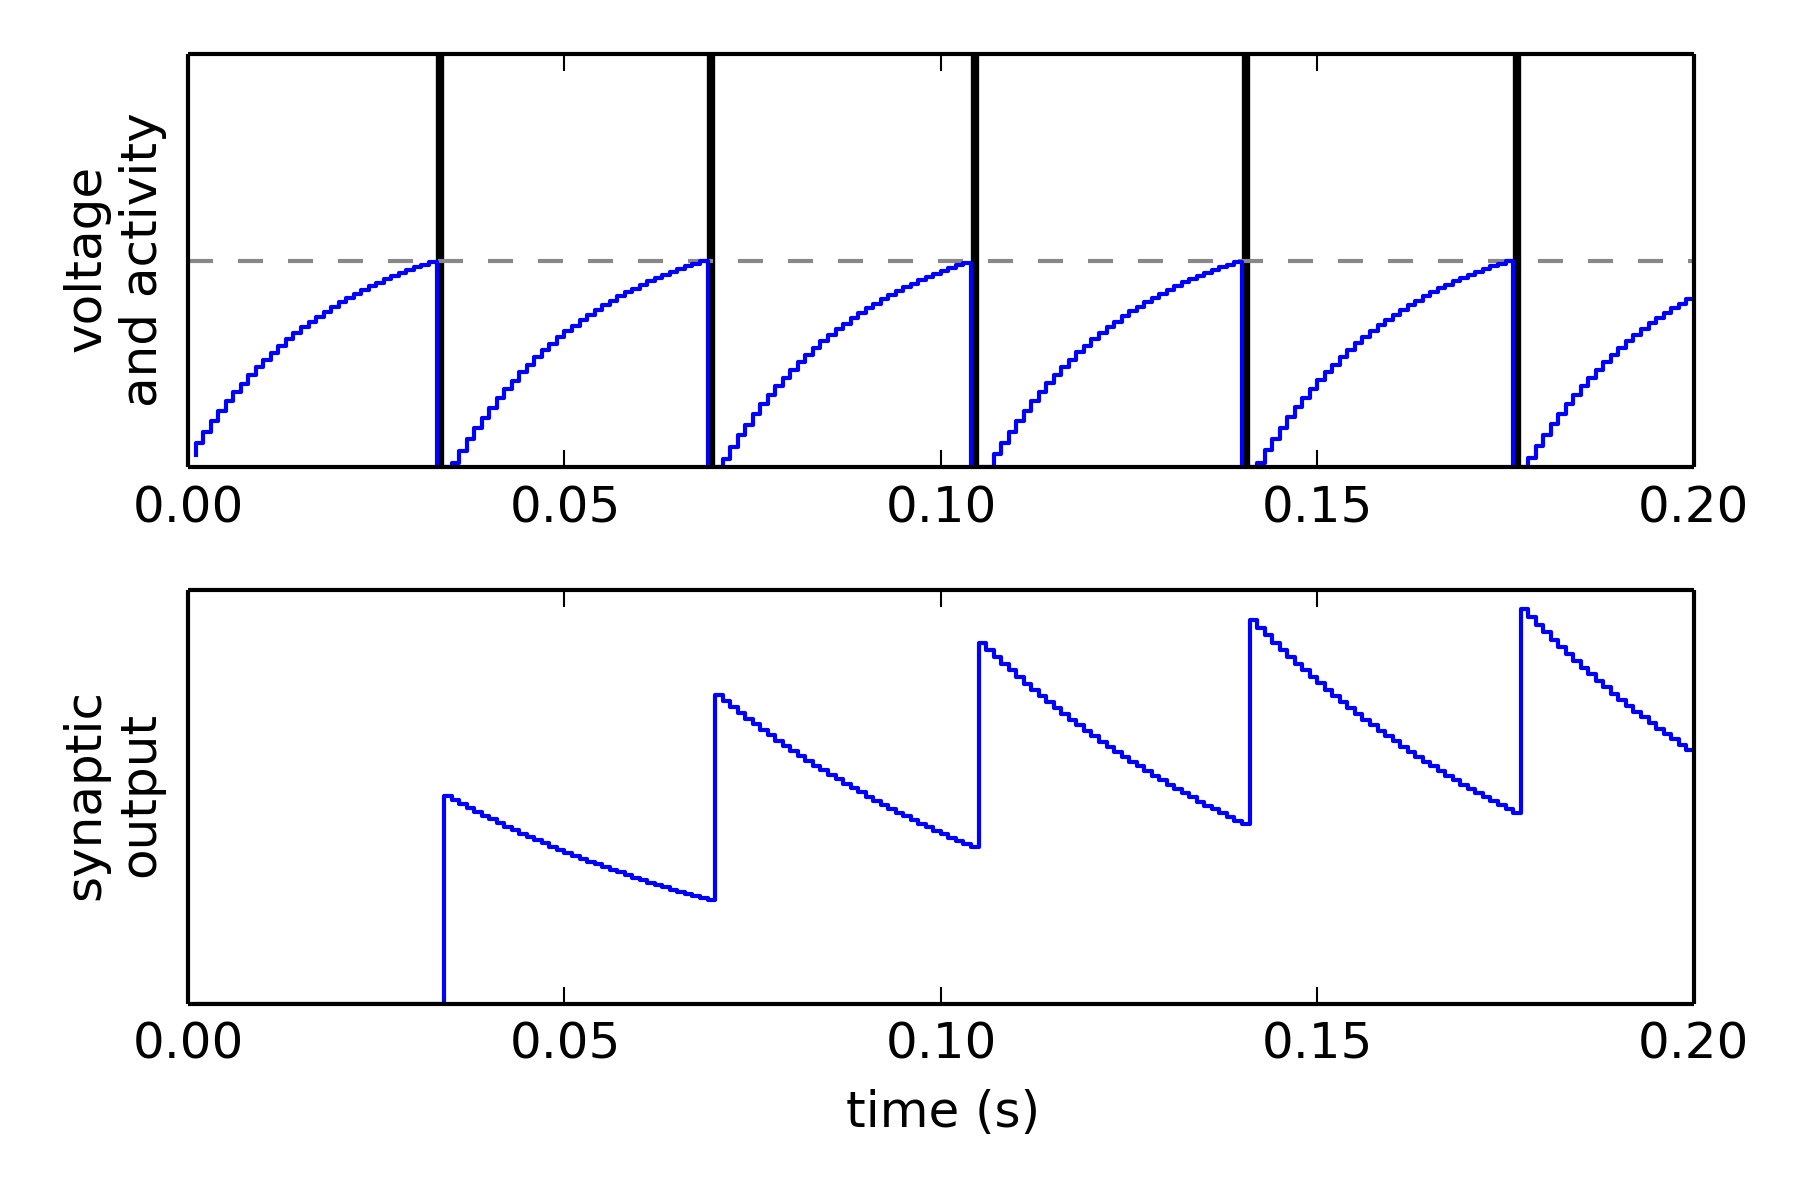
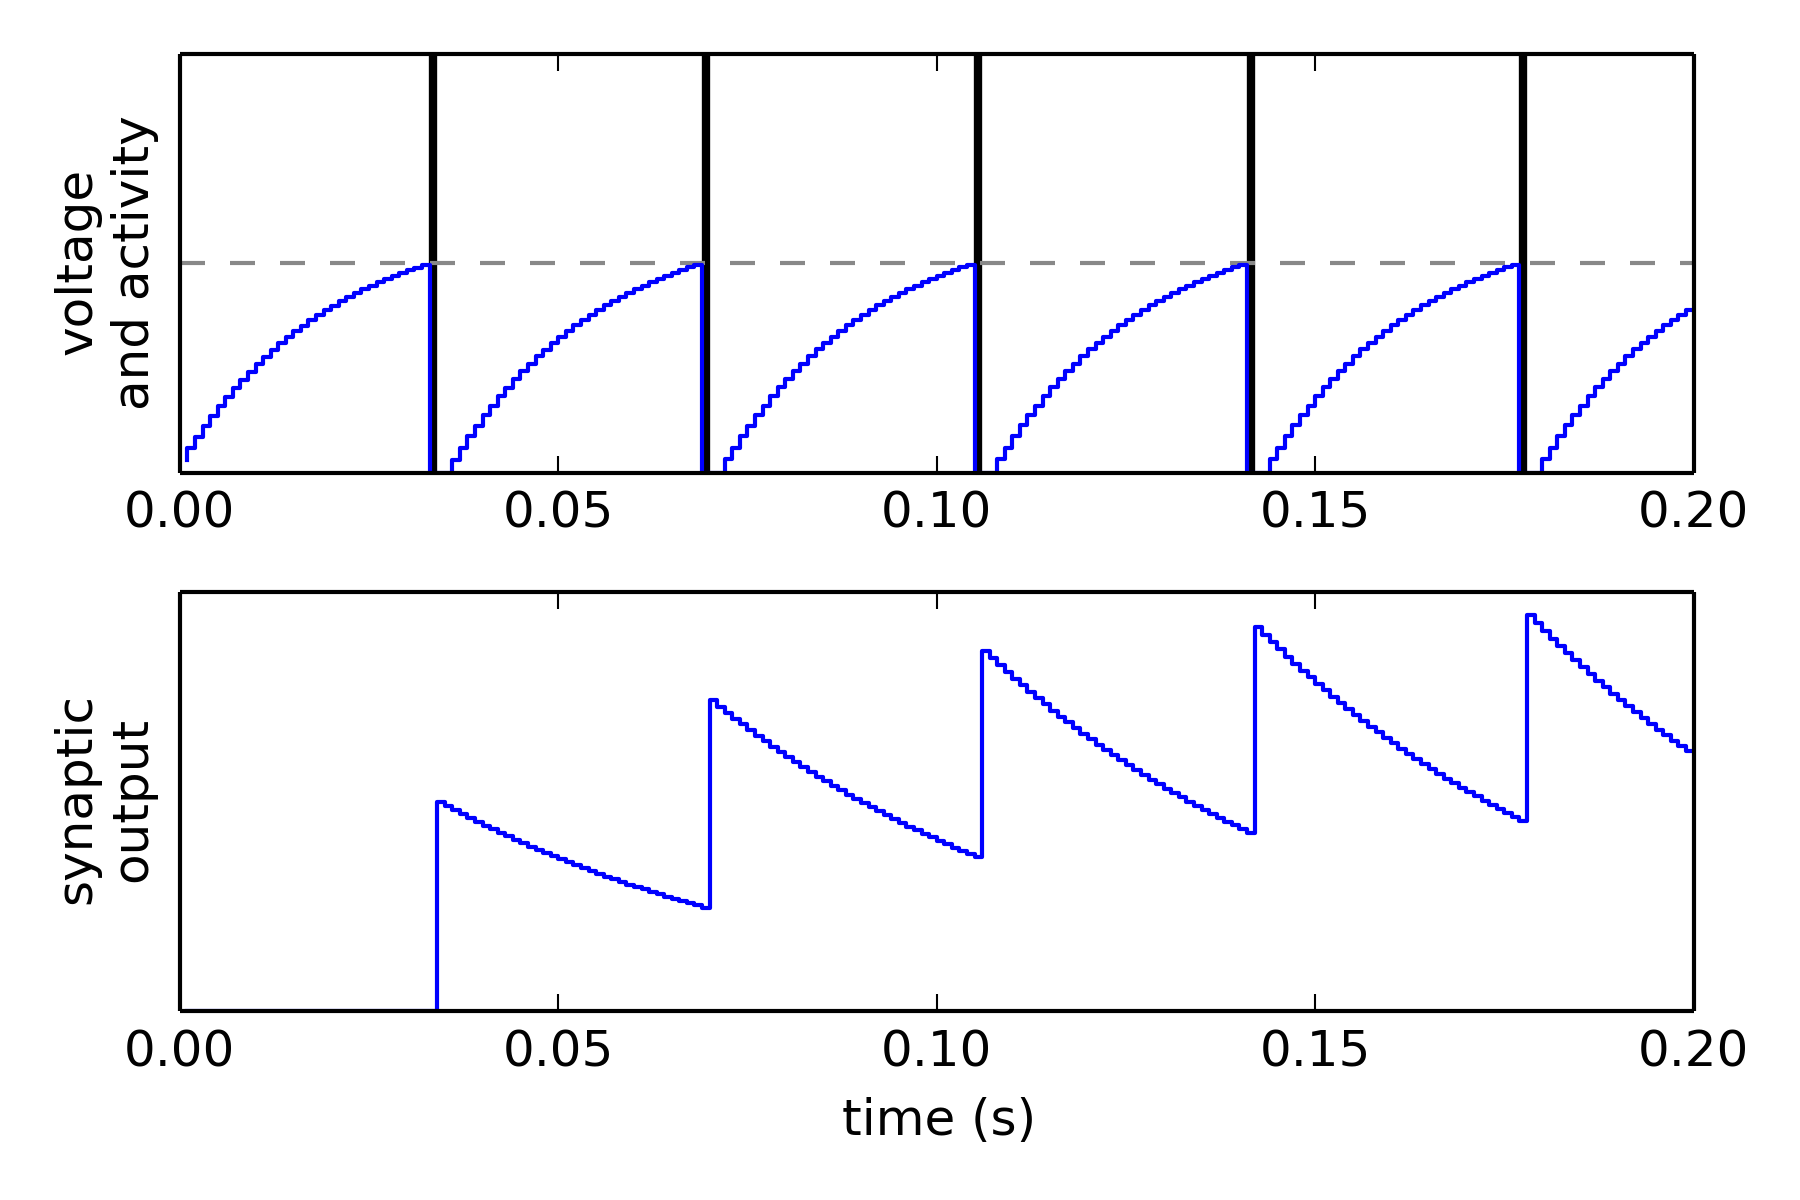
Actually ran neuron model on SpiNNaker

diff --git a/document/figures/neuron.py b/document/figures/neuron.py
@@ -17,7 +17,9 @@ with model:
     p_output = nengo.Probe(ens, synapse=0.05)
 
 dt = 0.001
-sim = nengo.Simulator(model, dt=dt)
+import nengo_spinnaker
+
+sim = nengo_spinnaker.Simulator(model, dt=dt)
 sim.run(0.2)
 
 import pylab
